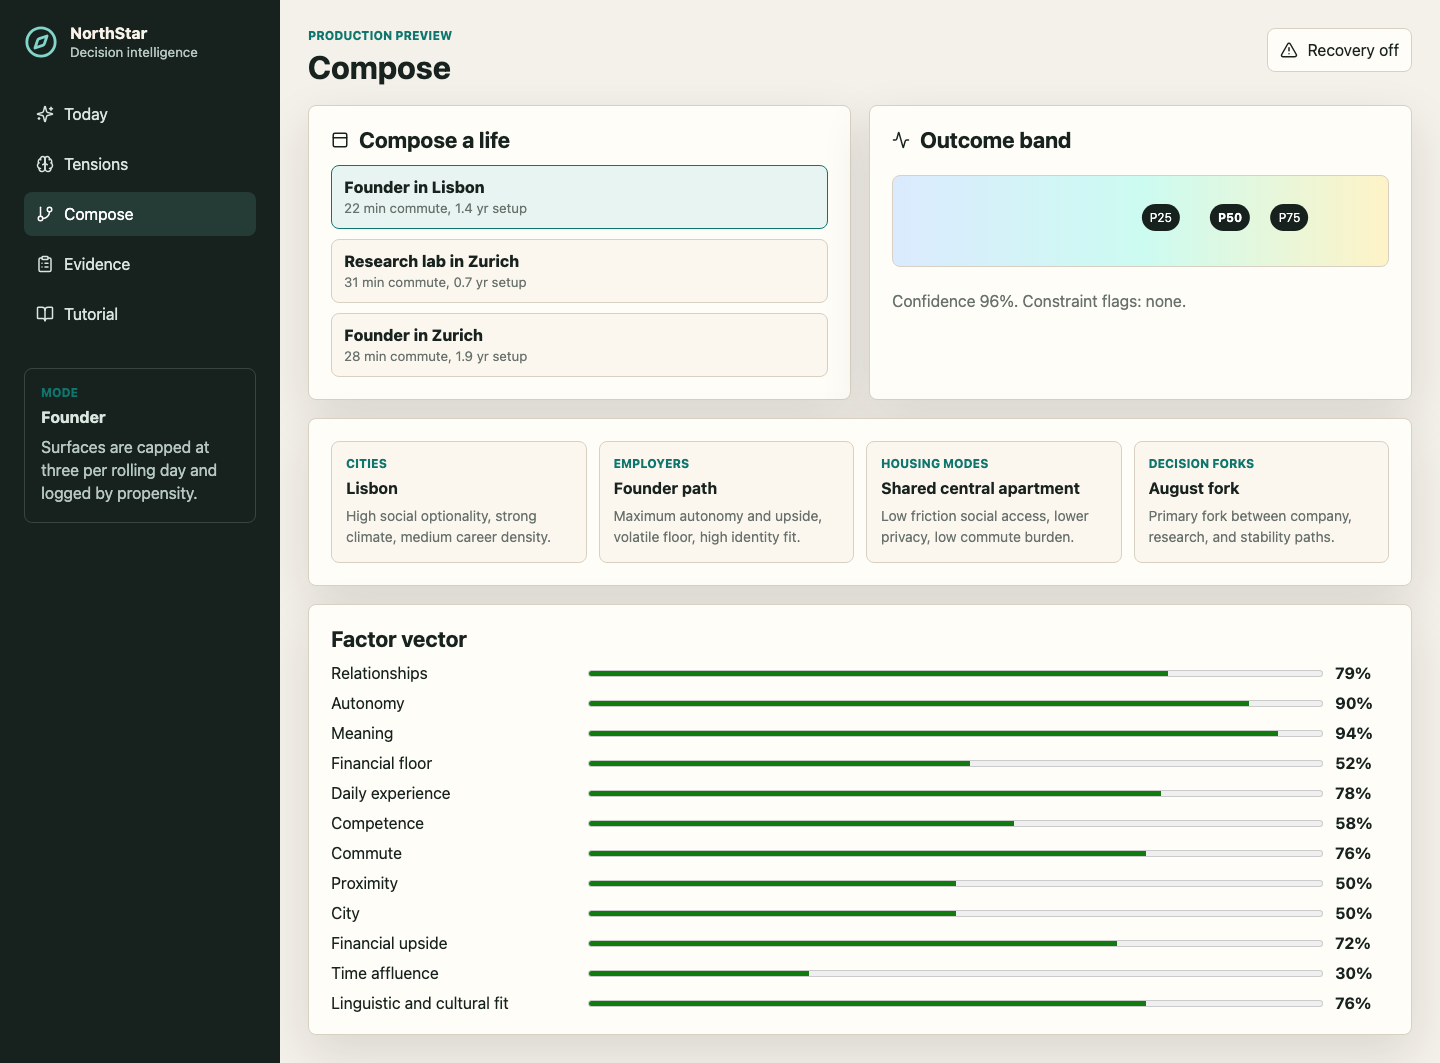
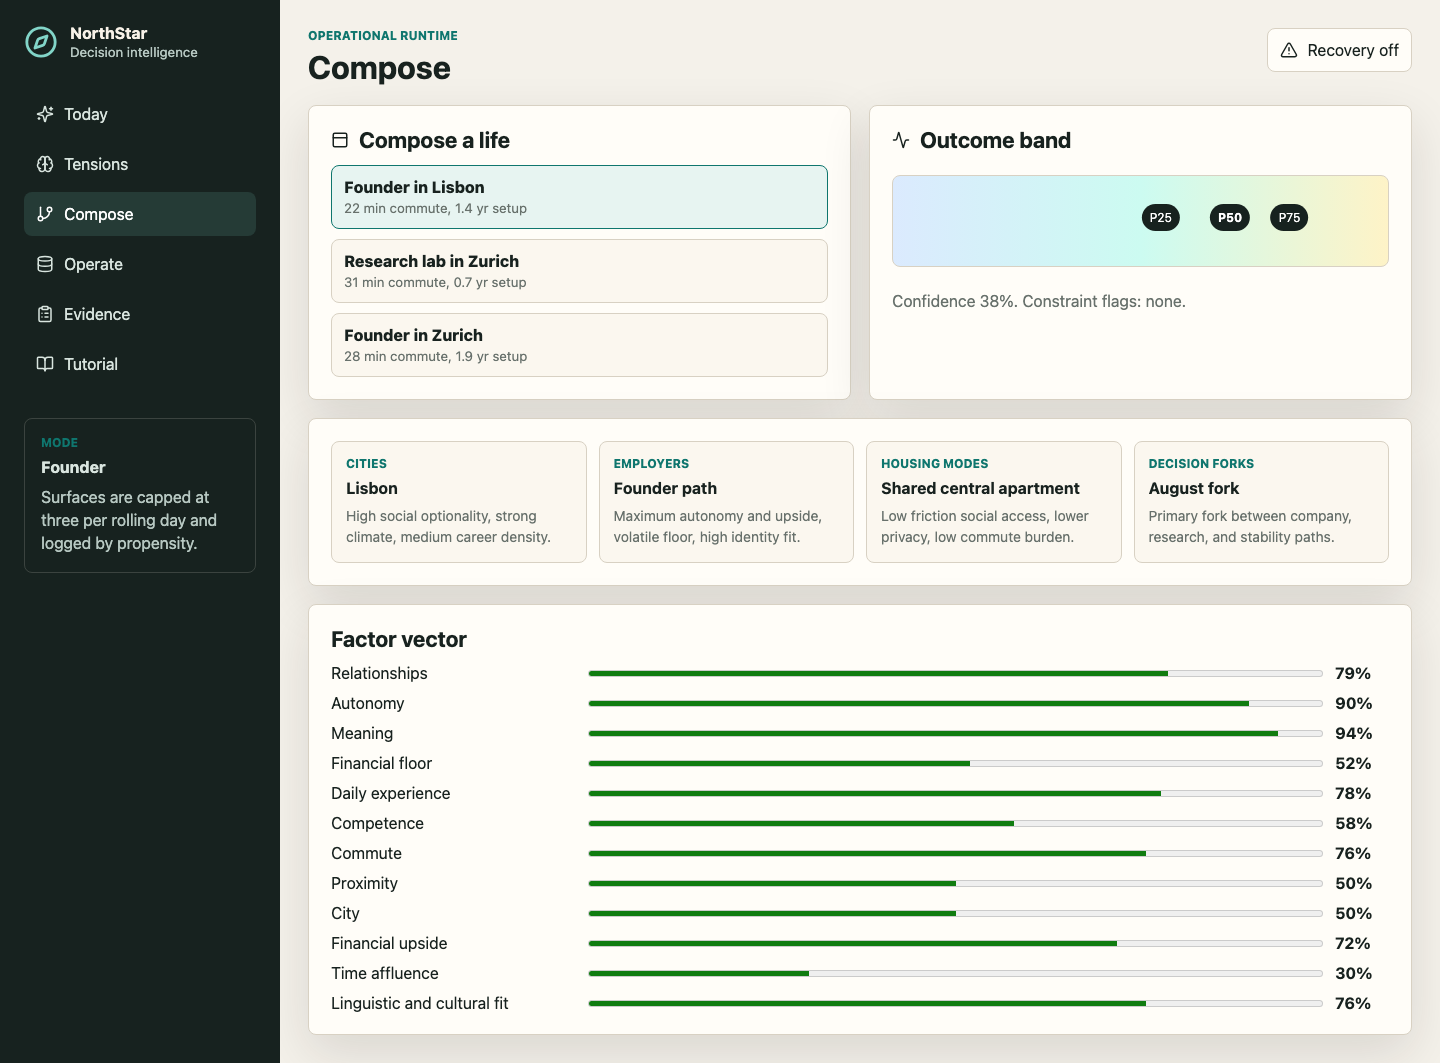
Deploy operational NorthStar runtime

Changed region(s): [[0.0312, 0.3415, 0.1562, 0.5278], [0.2188, 0.031, 0.3125, 0.0621], [0.0312, 0.2484, 0.0938, 0.3104]]

diff --git a/index.html b/index.html
@@ -4,8 +4,8 @@
     <meta charset="UTF-8" />
     <meta name="viewport" content="width=device-width, initial-scale=1.0" />
     <title>NorthStar</title>
-    <script type="module" crossorigin src="/NorthStar-pages/assets/index-BYI4RE3T.js"></script>
-    <link rel="stylesheet" crossorigin href="/NorthStar-pages/assets/index-Bvl4Cym_.css">
+    <script type="module" crossorigin src="/NorthStar-pages/assets/index-D5_UvcA3.js"></script>
+    <link rel="stylesheet" crossorigin href="/NorthStar-pages/assets/index-oMuc9RXM.css">
   </head>
   <body>
     <div id="root"></div>

diff --git a/assets/index-oMuc9RXM.css b/assets/index-oMuc9RXM.css
@@ -1,0 +1,1 @@
+:root{--lightningcss-light:initial;--lightningcss-dark: ;color-scheme:light;--bg:#f4f1ea;--panel:#fffdf8;--panel-strong:#16211d;--ink:#18221f;--muted:#68716c;--line:#d8d1c3;--accent:#0f766e;--accent-2:#b45309;--danger:#b42318;--blue:#3156a3;--green:#357a38;--shadow:0 18px 50px #1e1c161f;font-synthesis:none;text-rendering:optimizelegibility;font-family:Inter,ui-sans-serif,system-ui,-apple-system,BlinkMacSystemFont,Segoe UI,sans-serif}*{box-sizing:border-box}body{background:var(--bg);color:var(--ink);margin:0}button,a{font:inherit}a{color:inherit;text-decoration:none}.app-shell{grid-template-columns:280px minmax(0,1fr);min-height:100vh;display:grid}.sidebar{color:#f8f2e8;background:#17221f;min-height:100vh;padding:24px;position:sticky;top:0}.brand{align-items:center;gap:12px;margin-bottom:32px;display:flex}.brand svg{color:#82d5c8;width:34px;height:34px}.brand strong,.brand small{display:block}.brand small{color:#b7c8c2;margin-top:2px}.nav-list{gap:6px;display:grid}.nav-list a{color:#d9e5df;border-radius:8px;align-items:center;gap:10px;min-height:44px;padding:10px 12px;display:flex}.nav-list a.active,.nav-list a:hover{color:#fff;background:#82d5c824}.nav-list svg,.panel-heading svg,.icon-button svg,.primary-button svg{flex:none;width:18px;height:18px}.sidebar-panel{color:#d9e5df;border:1px solid #f8f2e829;border-radius:8px;margin-top:32px;padding:16px}.sidebar-panel p{color:#b7c8c2;margin:10px 0 0;line-height:1.45}.main-panel{padding:28px}.topbar{justify-content:space-between;align-items:flex-start;gap:18px;margin-bottom:20px;display:flex}h1,h2,p{margin-top:0}h1{margin-bottom:0;font-size:32px;line-height:1.05}h2{margin-bottom:12px;font-size:22px;line-height:1.14}p{color:var(--muted);line-height:1.55}.eyebrow{color:var(--accent);text-transform:uppercase;letter-spacing:0;margin-bottom:8px;font-size:12px;font-weight:800;display:block}.grid{grid-template-columns:repeat(2,minmax(0,1fr));gap:18px;display:grid}.wide{grid-column:1/-1}.panel,.hero-panel{background:var(--panel);border:1px solid var(--line);box-shadow:var(--shadow);border-radius:8px;padding:22px}.hero-panel{color:#fffaf0;background:radial-gradient(circle at 20% 70%,#f4c96b38,#0000 34%),radial-gradient(circle at 78% 24%,#82d5c833,#0000 32%),linear-gradient(130deg,#0f766efa,#16211dfa);flex-direction:column;justify-content:flex-end;min-height:290px;display:flex}.hero-panel h2{max-width:760px;margin-bottom:16px;font-size:clamp(36px,6vw,76px);line-height:.98}.hero-panel p,.hero-panel .eyebrow{color:#e0f4ef}.panel-heading{align-items:center;gap:10px;margin-bottom:12px;display:flex}.panel-heading h2{margin-bottom:0}.metrics-row{grid-template-columns:repeat(3,minmax(0,1fr));gap:12px;margin-top:18px;display:grid}.metric{background:#ffffff1f;border:1px solid #ffffff2e;border-radius:8px;padding:12px}.metric span,.metric strong{display:block}.metric span{color:#dcefe9;font-size:13px}.metric strong{margin-top:6px;font-size:24px}.check-list{gap:10px;margin:0;padding:0;list-style:none;display:grid}.check-list li{padding-left:26px;position:relative}.check-list li:before{content:"";background:var(--accent);border-radius:50%;width:16px;height:16px;position:absolute;top:4px;left:0}.timeline{grid-template-columns:repeat(5,minmax(0,1fr));gap:12px;display:grid}.coverage-grid{grid-template-columns:repeat(4,minmax(0,1fr));gap:12px;display:grid}.coverage-card{text-align:left;width:100%;min-height:126px;color:var(--ink);background:#fff7ed;border:1px solid #e0b6a5;border-radius:8px;padding:14px;display:block}button.coverage-card{cursor:pointer}.coverage-card.complete{background:#ecfdf7;border-color:#a8d5c9}.coverage-card span{color:var(--accent-2);text-transform:uppercase;letter-spacing:0;margin-bottom:8px;font-size:12px;font-weight:800;display:block}.coverage-card.complete span{color:var(--accent)}.coverage-card strong{margin-bottom:8px;display:block}.coverage-card p{margin-bottom:0;font-size:14px}.timeline-item{border-left:3px solid var(--accent);padding-left:12px}.timeline-item span{color:var(--accent-2);font-size:13px;font-weight:800}.timeline-item strong{margin:6px 0;display:block}.timeline-item p{margin-bottom:0;font-size:14px}.canvas-area{border:1px solid var(--line);background-color:#0000;background-image:linear-gradient(90deg,#18221f14 1px,#0000 1px),linear-gradient(#18221f14 1px,#0000 1px);background-position:0 0,0 0;background-repeat:repeat,repeat;background-size:44px 44px;background-attachment:scroll,scroll;background-origin:padding-box,padding-box;background-clip:border-box,border-box;border-radius:8px;height:440px;position:relative;overflow:hidden}.canvas-area:before,.canvas-area:after{content:"";background:#99a39e;position:absolute}.canvas-area:before{width:2px;top:34px;bottom:52px;left:50px}.canvas-area:after{height:2px;bottom:52px;left:50px;right:42px}.tension-point{color:#fff;cursor:pointer;border:0;border-radius:999px;min-width:148px;min-height:52px;font-weight:800;position:absolute;box-shadow:0 12px 28px #1e1c1633}.tension-point.p1{background:var(--accent);top:18%;left:20%}.tension-point.p2{background:var(--blue);top:36%;left:48%}.tension-point.p3{background:var(--accent-2);top:62%;left:58%}.axis{color:var(--muted);font-weight:800;position:absolute}.axis.y{top:18px;left:18px}.axis.x{bottom:18px;right:30px}.scenario-list{gap:10px;display:grid}.scenario-button{text-align:left;border:1px solid var(--line);width:100%;min-height:62px;color:var(--ink);cursor:pointer;background:#fbf7ef;border-radius:8px;padding:12px}.scenario-button.selected{border-color:var(--accent);background:#e7f4f1}.scenario-button span,.scenario-button small{display:block}.scenario-button span{font-weight:800}.scenario-button small{color:var(--muted);margin-top:4px}.band-chart{border:1px solid var(--line);background:linear-gradient(90deg,#dbeafe,#ccfbf1,#fef3c7);border-radius:8px;height:92px;margin:22px 0;position:relative}.band-chart span,.band-chart strong{color:#fff;background:#17221f;border-radius:999px;padding:6px 8px;font-size:12px;position:absolute;top:28px;transform:translate(-50%)}.primitive-grid,.factor-grid{gap:12px;display:grid}.primitive-grid{grid-template-columns:repeat(4,minmax(0,1fr))}.primitive-card{border:1px solid var(--line);background:#fbf7ef;border-radius:8px;padding:14px}.primitive-card strong{margin-bottom:8px;display:block}.primitive-card p{margin-bottom:0;font-size:14px}.factor-row{grid-template-columns:minmax(150px,1fr) minmax(120px,3fr) 54px;align-items:center;gap:12px;display:grid}meter{width:100%;height:14px}.evidence-table{gap:10px;display:grid}.intake-layout{gap:14px;display:grid}.intake-layout label{color:var(--muted);gap:8px;font-weight:800;display:grid}select,textarea{border:1px solid var(--line);width:100%;color:var(--ink);font:inherit;background:#fffdf8;border-radius:8px}select{min-height:44px;padding:8px 10px}textarea{resize:vertical;min-height:210px;padding:12px;line-height:1.5}.compact-textarea{min-height:150px;margin-bottom:12px}.prompt-box{border:1px solid var(--line);background:#fbf7ef;border-radius:8px;padding:14px}.prompt-box strong{margin-bottom:8px;display:block}.prompt-box p{margin-bottom:6px}.error-text{color:var(--danger);margin-bottom:0;font-weight:800}.evidence-row{border:1px solid var(--line);background:#fbf7ef;border-radius:8px;grid-template-columns:1.3fr 1fr 90px;align-items:start;gap:12px;padding:14px;display:grid}.evidence-row p{grid-column:1/-1;margin-bottom:0}.tutorial{gap:18px;display:grid}.tutorial-step{background:var(--panel);border:1px solid var(--line);box-shadow:var(--shadow);border-radius:8px;grid-template-columns:.8fr 1.2fr;align-items:center;gap:20px;padding:22px;display:grid}.tutorial-step figure{margin:0}.tutorial-step img{object-fit:cover;border:1px solid var(--line);background:#e7e1d5;border-radius:8px;width:100%;min-height:220px;display:block}.tutorial-step figcaption{color:var(--muted);margin-top:8px;font-size:13px}.mini-diagram{border:1px solid var(--line);background:#fbf7ef;border-radius:8px;gap:8px;height:120px;padding:12px;display:grid}.mini-diagram span{background:var(--accent);border-radius:999px;display:block}.mini-diagram.composition{grid-template-columns:repeat(4,1fr);align-items:center}.mini-diagram.composition span{height:72px}.mini-diagram.tensions span:first-child{width:45%}.mini-diagram.tensions span:nth-child(2){background:var(--blue);width:70%}.mini-diagram.tensions span:nth-child(3){background:var(--accent-2);width:56%}.mini-diagram.evidence span{height:18px}.mini-diagram.evidence span:nth-child(2){background:var(--blue)}.mini-diagram.evidence span:nth-child(3){background:var(--green)}.gate{flex-direction:column;justify-content:center;align-items:flex-start;min-height:420px;display:flex}.gate>svg{width:42px;height:42px;color:var(--accent-2);margin-bottom:18px}.primary-button,.icon-button{border:1px solid var(--line);cursor:pointer;border-radius:8px;align-items:center;gap:9px;min-height:44px;display:inline-flex}.primary-button{background:var(--accent);color:#fff;border-color:var(--accent);padding:10px 14px;font-weight:800}.icon-button{background:var(--panel);color:var(--ink);padding:9px 12px}.icon-button.danger{border-color:var(--danger);color:var(--danger)}.recovery-banner{color:var(--danger);background:#fff1f0;border:1px solid #f5b6b0;border-radius:8px;margin:0 0 18px;padding:12px 14px;font-weight:800}.muted{color:var(--muted)}@media (width<=860px){.app-shell{grid-template-columns:1fr}.sidebar{min-height:auto;padding:14px;position:static}.brand{margin-bottom:12px}.nav-list{grid-template-columns:repeat(5,minmax(0,1fr));overflow-x:auto}.nav-list a{justify-content:center}.nav-list span,.sidebar-panel{display:none}.main-panel{padding:16px}.topbar{flex-direction:column;align-items:stretch}h1{font-size:28px}.grid,.tutorial-step,.primitive-grid,.coverage-grid,.timeline{grid-template-columns:1fr}.hero-panel{min-height:330px}.hero-panel h2{font-size:44px}.metrics-row,.evidence-row,.factor-row{grid-template-columns:1fr}.canvas-area{height:360px}.tension-point{min-width:112px;min-height:48px;font-size:13px}}